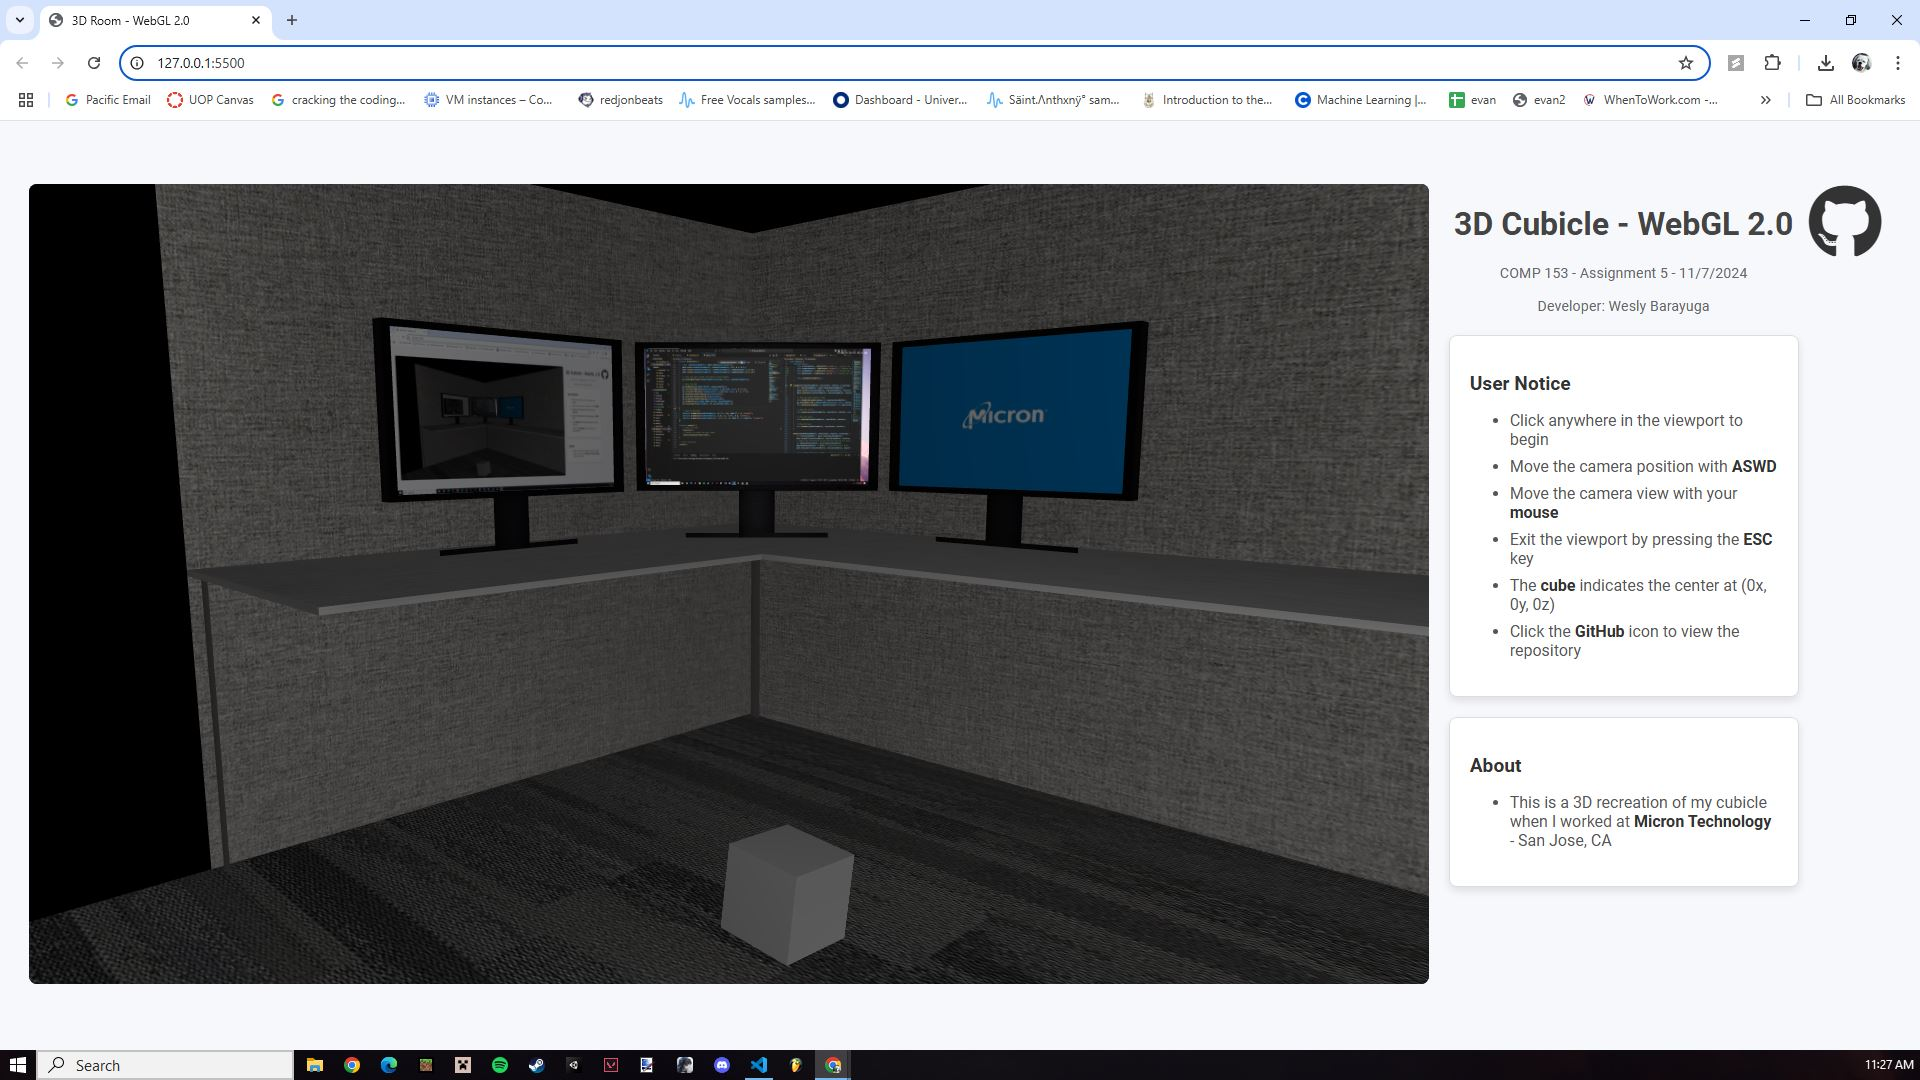
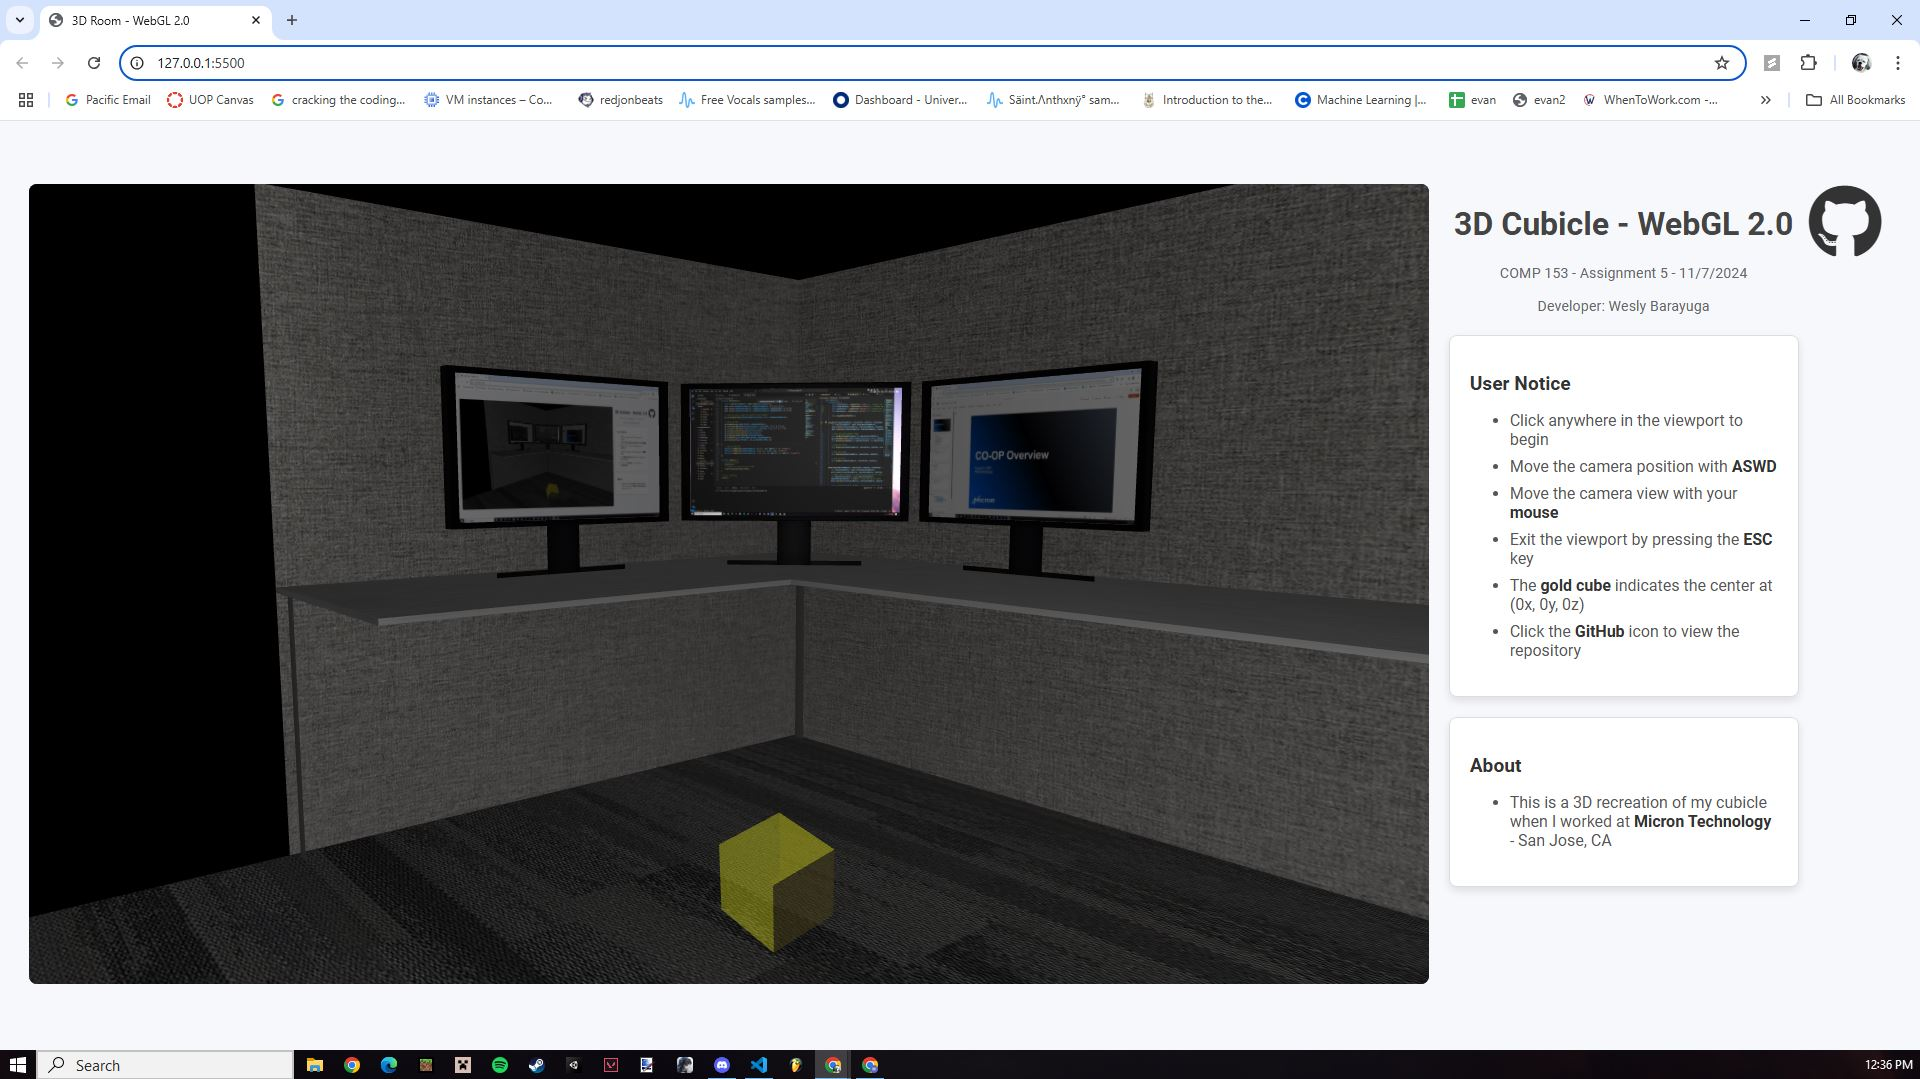
11/12/2024 12:37PM  Update: Added second shader

diff --git a/main.js b/main.js
@@ -23,7 +23,32 @@ let yaw = Math.PI / 4; // Left/Right rotation (in radians, starts looking -Z)
 // Main shader program initialization
 const vsSource = document.getElementById('vshader').textContent.trim();
 const fsSource = document.getElementById('fshader').textContent.trim();
-const shaderProgram = initShaders();
+const shaderProgram = initShaders(vsSource, fsSource);
+
+//
+// Initialize shaders for the transparent cube
+const vsSourceTransparent = document.getElementById('vshader_transparent').textContent.trim();
+const fsSourceTransparent = document.getElementById('fshader_transparent').textContent.trim();
+const transparentShaderProgram = initShaders(vsSourceTransparent, fsSourceTransparent);
+
+// Define attribute locations for the transparent shader
+const positionLocationTransparent = gl.getAttribLocation(transparentShaderProgram, "aPosition");
+const normalLocationTransparent = gl.getAttribLocation(transparentShaderProgram, "aNormal");
+
+// Set up uniforms for the transparent shader
+const uModelViewMatrixLocationTransparent = gl.getUniformLocation(transparentShaderProgram, "uModelViewMatrix");
+const uProjectionMatrixLocationTransparent = gl.getUniformLocation(transparentShaderProgram, "uProjectionMatrix");
+const uLightDirectionLocationTransparent = gl.getUniformLocation(transparentShaderProgram, "uLightDirection");
+const uLightColorLocationTransparent = gl.getUniformLocation(transparentShaderProgram, "uLightColor");
+const uAmbientColorLocationTransparent = gl.getUniformLocation(transparentShaderProgram, "uAmbientColor");
+
+// Get the resolution of the canvas
+const resolution = [canvas.width, canvas.height];
+
+// Get the location of the resolution uniform
+const uTransparentResolutionLocation = gl.getUniformLocation(transparentShaderProgram, "uResolution");
+
+//
 
 // Create index and vertex buffer for the cube
 const { cubeVertexBuffer, cubeIndexBuffer } = createCubeBuffers();
@@ -34,7 +59,6 @@ const desk2 = new Desk2();
 const monitor1 = new Monitor();
 const monitor2 = new Monitor();
 const monitor3 = new Monitor();
-// Need to add other objects here...
 
 
 
@@ -71,7 +95,7 @@ function updateCameraDirection() {
 }
 
 // Initialize shaders and program
-function initShaders() {
+function initShaders(vsSource, fsSource) {
     const vertexShader = gl.createShader(gl.VERTEX_SHADER);
     gl.shaderSource(vertexShader, vsSource);
     gl.compileShader(vertexShader);
@@ -128,26 +152,39 @@ function drawScene() {
 
     
 
+    // Use the transparent shader program for the cube
+    gl.enable(gl.BLEND);
+    gl.blendFunc(gl.SRC_ALPHA, gl.ONE_MINUS_SRC_ALPHA);
+    gl.useProgram(transparentShaderProgram);
+
+    // Send matrices and light data to the transparent shaders
+    gl.uniformMatrix4fv(uModelViewMatrixLocationTransparent, false, modelViewMatrix);
+    gl.uniformMatrix4fv(uProjectionMatrixLocationTransparent, false, projectionMatrix);
+    gl.uniform3fv(uLightDirectionLocationTransparent, light.direction);
+    gl.uniform3fv(uLightColorLocationTransparent, light.color);
+    gl.uniform3fv(uAmbientColorLocationTransparent, light.ambientColor);
+
     // Rotate the cube and set the model view matrix for it
     const cubeModelViewMatrix = mat4.clone(modelViewMatrix);
     mat4.scale(cubeModelViewMatrix, cubeModelViewMatrix, [0.5, 0.5, 0.5]);
     mat4.rotate(cubeModelViewMatrix, cubeModelViewMatrix, cubeRotationX, [1, 0, 0]);
     mat4.rotate(cubeModelViewMatrix, cubeModelViewMatrix, cubeRotationY, [0, 1, 0]);
 
-    // Send the cube's model view matrix to the shaders
-    gl.uniformMatrix4fv(uModelViewMatrixLocation, false, cubeModelViewMatrix);
+    // Send the cube's model view matrix to the transparent shaders
+    gl.uniformMatrix4fv(uModelViewMatrixLocationTransparent, false, cubeModelViewMatrix);
 
-    // DRAW THE CUBE
+    // DRAW THE CUBE with the transparent shader
     gl.bindBuffer(gl.ARRAY_BUFFER, cubeVertexBuffer);
-    gl.vertexAttribPointer(positionLocation, 3, gl.FLOAT, false, 6 * 4, 0);
-    gl.vertexAttribPointer(normalLocation, 3, gl.FLOAT, false, 6 * 4, 3 * 4);
-    gl.enableVertexAttribArray(positionLocation);
-    gl.enableVertexAttribArray(normalLocation);
-    gl.disableVertexAttribArray(texCoordLocation);
+    gl.vertexAttribPointer(positionLocationTransparent, 3, gl.FLOAT, false, 6 * 4, 0);
+    gl.vertexAttribPointer(normalLocationTransparent, 3, gl.FLOAT, false, 6 * 4, 3 * 4);
+    gl.enableVertexAttribArray(positionLocationTransparent);
+    gl.enableVertexAttribArray(normalLocationTransparent);
     gl.bindBuffer(gl.ELEMENT_ARRAY_BUFFER, cubeIndexBuffer);
     gl.drawElements(gl.TRIANGLES, 36, gl.UNSIGNED_SHORT, 0);
 
-
+    gl.disable(gl.BLEND);
+    gl.useProgram(shaderProgram);
+    
     // DRAW MY MONITORS
     monitor1.drawMonitor(modelViewMatrix, [0, 5.5, -10], Math.PI / -4, "screen2");
     monitor2.drawMonitor(modelViewMatrix, [2.25, 5.5, -8.75], 0.0, "screen3");

diff --git a/index.html b/index.html
@@ -106,6 +106,62 @@ Purpose:    Define HTML code for a controllable 3D cube with Phong Reflection mo
             gl_FragColor = vec4(color * (ambient + diffuse) + specular, 1.0);
         }
     </script>
+    <script type="shader-vertex" id="vshader_transparent">
+        attribute vec3 aPosition;
+        attribute vec3 aNormal;
+    
+        uniform mat4 uModelViewMatrix;
+        uniform mat4 uProjectionMatrix;
+    
+        varying vec3 vNormal;
+        varying vec3 vFragPos;
+        varying vec4 vPosition;
+    
+        void main() {
+            vFragPos = vec3(uModelViewMatrix * vec4(aPosition, 1.0));
+            vNormal = normalize(mat3(uModelViewMatrix) * aNormal);
+            vPosition = uProjectionMatrix * vec4(vFragPos, 1.0);
+            gl_Position = vPosition;
+        }
+    </script>
+    
+    <script type="shader-fragment" id="fshader_transparent">
+        precision mediump float;
+    
+        varying vec3 vNormal;
+        varying vec3 vFragPos;
+        varying vec4 vPosition;
+    
+        uniform vec3 uLightDirection;
+        uniform vec3 uLightColor;
+        uniform vec3 uAmbientColor;
+        uniform vec2 uResolution;  // Add the screen resolution as a uniform
+    
+        void main() {
+            // Calculate pixel size (e.g., 20x20 pixels)
+            float pixelSize = 20.0;
+            vec2 uv = vPosition.xy / vPosition.w;
+            uv = uv * 0.5 + 0.5; // Transform from clip space to [0, 1]
+            
+            // Snap UV coordinates to the pixel grid
+            uv = floor(uv * uResolution / pixelSize) * pixelSize / uResolution;
+    
+            // Transform back to clip space
+            vec2 snappedPos = uv * 2.0 - 1.0;
+            snappedPos *= vPosition.w;
+    
+            // Lighting calculations
+            vec3 ambient = uAmbientColor * 1.5;
+            vec3 diffuse = vec3(0.025);
+            float diff = max(dot(vNormal, -uLightDirection), 0.0);
+            diffuse += diff * uLightColor;
+    
+            vec3 color = vec3(1.0, 0.84, 0.0); // Use a fixed color for the transparent cube
+    
+            gl_FragColor = vec4(color * (ambient + diffuse), 0.3); // 50% opacity
+        }
+    </script>
+    
                            
     
                                                     <!-- NOTE: Start of project workflow -->  
@@ -136,7 +192,7 @@ Purpose:    Define HTML code for a controllable 3D cube with Phong Reflection mo
                     <li>Move the camera position with <strong>ASWD</strong></li>
                     <li>Move the camera view with your <strong>mouse</strong></li>
                     <li>Exit the viewport by pressing the <strong>ESC</strong> key</li>
-                    <li>The <strong>cube</strong> indicates the center at (0x, 0y, 0z)</li>
+                    <li>The <strong>gold cube</strong> indicates the center at (0x, 0y, 0z)</li>
                     <li>Click the <strong>GitHub</strong> icon to view the repository</li>
                 </ul>
             </div>
